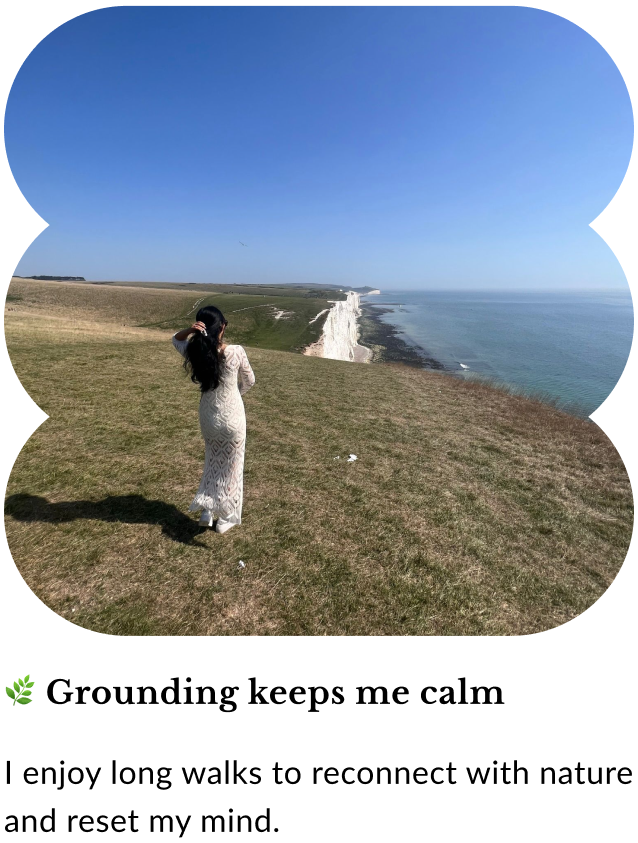
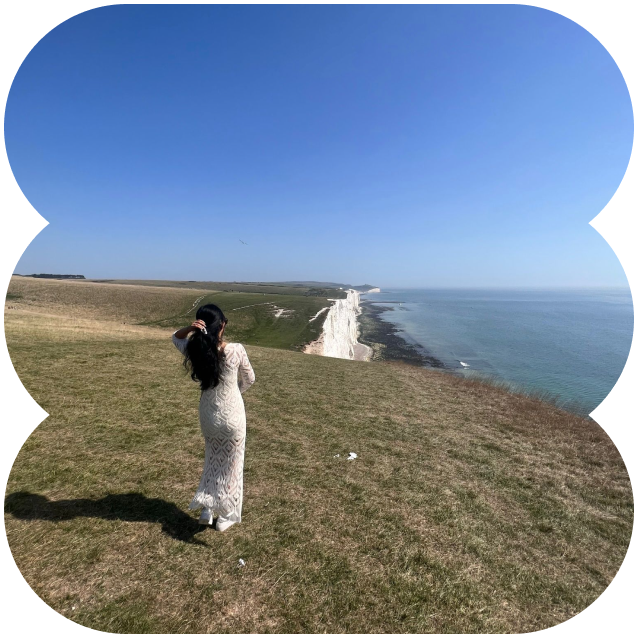
improve images rendering and perfromance

diff --git a/about.html b/about.html
@@ -135,29 +135,39 @@
         <div id="carousel--slides" class="carousel--slides">
           <div class="carousel--slide">
             <div class="carousel--slide--box">
-              <img src="assets/img/carousel/about_1.png" />
+              <img width="315" height="315" src="assets/img/carousel/about_1.png" />
+              <h4>☕ Coffeeholic alert</h4>
+              <p>Nothing makes me happier than visiting cute specialty coffee shops with friends. </p>
             </div>
           </div>
 
           <div class="carousel--slide">
             <div class="carousel--slide--box">
-              <img src="assets/img/carousel/about_2.png" />
+              <img width="315" height="315" src="assets/img/carousel/about_2.png" />
+              <h4> 🍽 I’m a foodie at heart</h4>
+              <p>I love discovering new places, cultures, and flavors through travel and local cuisine.</p>
             </div>
           </div>
           <div class="carousel--slide">
             <div class="carousel--slide--box">
-              <img src="assets/img/carousel/about_3.png" />
+              <img width="315" height="315" src="assets/img/carousel/about_3.png" />
+              <h4>🌿 Grounding keeps me calm</h4>
+              <p>I enjoy long walks to reconnect with nature and reset my mind.</p>
             </div>
           </div>
           <div class="carousel--slide">
             <div class="carousel--slide--box">
-              <img src="assets/img/carousel/about_4.png" />
+              <img width="315" height="315" src="assets/img/carousel/about_4.png" />
+              <h4>🌍 I’ve lived in five countries</h4>
+              <p>Born in Venezuela, and life (and work) has taken me to Ecuador, Argentina, Spain, and the UK</p>
             </div>
 
           </div>
           <div class="carousel--slide">
             <div class="carousel--slide--box">
-              <img src="assets/img/carousel/about_5.png" />
+              <img width="315" height="315" src="assets/img/carousel/about_5.png" />
+              <h4>🎶 Concerts are my vibe</h4>
+              <p>I’m always up for live music, from festivals to local concerts (my playlists might surprise you!).</p>
             </div>
           </div>
         </div>
@@ -180,7 +190,8 @@
                   </section>
                 </div>
               </a>
-              <p class="project-description"><strong>SABA Web:</strong> B2B web app that helps users find and book car parkings easily.</p>
+              <p class="project-description"><strong>SABA Web:</strong> B2B web app that helps users find and book car
+                parkings easily.</p>
               <a href="saba.html" class="btn-default">Read more</a>
             </div>
             <div>
@@ -192,7 +203,8 @@
                   </section>
                 </div>
               </a>
-              <p class="project-description"><strong>Implika Web:</strong> website redesign focused on SEO and CRO strategies to increase conversion rate</p>
+              <p class="project-description"><strong>Implika Web:</strong> website redesign focused on SEO and CRO
+                strategies to increase conversion rate</p>
               <a href="implika.html" class="btn-default">Read more</a>
             </div>
           </div>
@@ -323,7 +335,6 @@
   <script src="assets/vendor/jquery/jquery.min.js"></script>
   <script src="assets/vendor/bootstrap/js/bootstrap.bundle.min.js"></script>
   <script src="assets/vendor/jquery.easing/jquery.easing.min.js"></script>
-  <script src="assets/vendor/php-email-form/validate.js"></script>
   <script src="assets/vendor/waypoints/jquery.waypoints.min.js"></script>
   <script src="assets/vendor/counterup/counterup.min.js"></script>
   <script src="assets/vendor/owl.carousel/owl.carousel.min.js"></script>

diff --git a/index.html b/index.html
@@ -113,30 +113,30 @@
             <div id="carousel--slides" class="carousel--slides">
                 <div class="carousel--slide">
                     <div class="carousel--slide--box">
-                        <img src="assets/img/carousel/carousel_1.png" />
+                        <img width="384" height="285" src="assets/img/carousel/carousel_1.png" />
                     </div>
                 </div>
 
                 <div class="carousel--slide">
                     <div class="carousel--slide--box">
-                        <img src="assets/img/carousel/carousel_2.png" />
+                        <img width="384" height="285" src="assets/img/carousel/carousel_2.png" />
                     </div>
                 </div>
 
                 <div class="carousel--slide">
                     <div class="carousel--slide--box">
-                        <img src="assets/img/carousel/carousel_3.png" />
+                        <img width="384" height="285" src="assets/img/carousel/carousel_3.png" />
                     </div>
                 </div>
 
                 <div class="carousel--slide">
                     <div class="carousel--slide--box">
-                        <img src="assets/img/carousel/carousel_4.png" />
+                        <img width="384" height="285" src="assets/img/carousel/carousel_4.png" />
                     </div>
                 </div>
                 <div class="carousel--slide">
                     <div class="carousel--slide--box">
-                        <img src="assets/img/carousel/carousel_5.png" />
+                        <img width="384" height="285" src="assets/img/carousel/carousel_5.png" />
                     </div>
                 </div>
             </div>
@@ -243,7 +243,7 @@
     <script src="assets/vendor/jquery/jquery.min.js"></script>
     <script src="assets/vendor/bootstrap/js/bootstrap.bundle.min.js"></script>
     <script src="assets/vendor/jquery.easing/jquery.easing.min.js"></script>
-    <script src="assets/vendor/php-email-form/validate.js"></script>
+   
     <script src="assets/vendor/waypoints/jquery.waypoints.min.js"></script>
     <script src="assets/vendor/counterup/counterup.min.js"></script>
     <script src="assets/vendor/owl.carousel/owl.carousel.min.js"></script>

diff --git a/assets/css/carousel.css b/assets/css/carousel.css
@@ -1,7 +1,6 @@
 #carousel {
     width: 100%;
     flex: none;
-    height: 333px;
     position: relative;
     width: 100%;
     aspect-ratio: auto;
@@ -46,16 +45,57 @@
 .carousel--slide--box {
     position: relative;
     border-radius: 20px;
-    box-shadow: rgb(255, 255, 255) 0px 3px 0px 0px inset;
-    width: 286px;
-    height: 333px;
+    width: 384px;
+    height: 285px;
 }
 
 .carousel--slide--box img {
-    width: 100%;
-    height: 100%;
+    width: 384px;
+    height: 285px;
     border-radius: 20px;
-    object-fit: contain;
-    object-position: center;
-    aspect-ratio: auto 1582 / 1187;
+    /* if you're scaling up low-res */
+}
+
+#about-page .carousel--slide,
+#about-page .carousel--slides {
+    width: 315px;
+    height: 519px;
+}
+
+#about-page .carousel--slide--box {
+    width: 315px;
+    height: 419px;
+    box-shadow: none;
+}
+
+#about-page .carousel--slide--box h4 {
+    font-family: "Libre Baskerville", "Libre Baskerville Placeholder", serif;
+    font-weight: 700;
+    font-style: bold;
+    font-size: 15px;
+    line-height: 24px;
+    letter-spacing: 2%;
+    vertical-align: middle;
+    color: #000000;
+    margin: 15px;
+}
+
+#about-page .carousel--slide--box p {
+    font-family: Lato;
+    font-weight: 400;
+    font-style: regular;
+    font-size: 14px;
+    line-height: 24px;
+    letter-spacing: 2%;
+    vertical-align: middle;
+    color: #000000;
+    margin: 15px;
+}
+
+#about-page .carousel--slide--box img {
+    height: 315px;
+}
+
+#about-page #carousel {
+    height: 100%;
 }

diff --git a/assets/js/carousel.js b/assets/js/carousel.js
@@ -8,13 +8,16 @@ document.addEventListener("DOMContentLoaded", () => {
 
     // I need to duplicate the slides to create a seamless effect
     const cloneSlides = () => {
-        const originals = Array.from(carouselSlides.children);
-        // e.g. duplicate 3 times
-        for (let j = 0; j < 3; j++) {
-            originals.forEach(slide => {
-                carouselSlides.appendChild(slide.cloneNode(true));
-            });
+        if (carouselSlides?.children) {
+            const originals = Array.from(carouselSlides.children);
+            // e.g. duplicate 3 times
+            for (let j = 0; j < 3; j++) {
+                originals.forEach(slide => {
+                    carouselSlides.appendChild(slide.cloneNode(true));
+                });
+            }
         }
+
     }
 
     const carouselContainer = document.getElementById("carousel");
@@ -35,7 +38,10 @@ document.addEventListener("DOMContentLoaded", () => {
         updateCarouselPosition(true);
     }
 
-    setInterval(nextSlide, 280);
-    cloneSlides(); // Clone slides for seamless effect
+    if (carouselSlides) {
+        setInterval(nextSlide, 280);
+        cloneSlides(); // Clone slides for seamless effect
+    }
+
 
 })

diff --git a/assets/css/style.css b/assets/css/style.css
@@ -47,6 +47,23 @@ p strong {
 
 }
 
+img {
+  object-fit: contain;
+  object-position: center;
+  aspect-ratio: auto 1582 / 1187;
+
+
+  image-rendering: auto;
+  image-rendering: crisp-edges;
+  image-rendering: -webkit-optimize-contrast;
+  /* Chrome/Safari */
+  image-rendering: pixelated;
+  /* Firefox */
+  /* -ms-interpolation-mode: nearest-neighbor; */
+  /* Force GPU acceleration */
+  /* backface-visibility: hidden; */
+}
+
 #main {
   margin-top: 50px;
 }
@@ -2155,11 +2172,6 @@ section {
   width: 100%;
   height: auto;
   image-rendering: -webkit-optimize-contrast;
-  /* For Chrome */
-  image-rendering: crisp-edges;
-  -ms-interpolation-mode: nearest-neighbor;
-  /* Force GPU acceleration */
-  backface-visibility: hidden;
   /* Reduce blurriness */
   width: 100%;
 }
@@ -2189,7 +2201,7 @@ section {
 }
 
 #about.project-description .columns {
-  grid-template-columns: 65% 35%;
+  grid-template-columns: 60% 40%;
 }
 
 #about.project-description .columns-even {

diff --git a/dr_planta.html b/dr_planta.html
@@ -540,7 +540,7 @@
         <script src="assets/vendor/jquery/jquery.min.js"></script>
         <script src="assets/vendor/bootstrap/js/bootstrap.bundle.min.js"></script>
         <script src="assets/vendor/jquery.easing/jquery.easing.min.js"></script>
-        <script src="assets/vendor/php-email-form/validate.js"></script>
+
         <script src="assets/vendor/waypoints/jquery.waypoints.min.js"></script>
         <script src="assets/vendor/counterup/counterup.min.js"></script>
         <script src="assets/vendor/owl.carousel/owl.carousel.min.js"></script>

diff --git a/implika.html b/implika.html
@@ -459,7 +459,7 @@
         <script src="assets/vendor/jquery/jquery.min.js"></script>
         <script src="assets/vendor/bootstrap/js/bootstrap.bundle.min.js"></script>
         <script src="assets/vendor/jquery.easing/jquery.easing.min.js"></script>
-        <script src="assets/vendor/php-email-form/validate.js"></script>
+
         <script src="assets/vendor/waypoints/jquery.waypoints.min.js"></script>
         <script src="assets/vendor/counterup/counterup.min.js"></script>
         <script src="assets/vendor/owl.carousel/owl.carousel.min.js"></script>

diff --git a/prinbook.html b/prinbook.html
@@ -448,7 +448,7 @@
         <script src="assets/vendor/jquery/jquery.min.js"></script>
         <script src="assets/vendor/bootstrap/js/bootstrap.bundle.min.js"></script>
         <script src="assets/vendor/jquery.easing/jquery.easing.min.js"></script>
-        <script src="assets/vendor/php-email-form/validate.js"></script>
+
         <script src="assets/vendor/waypoints/jquery.waypoints.min.js"></script>
         <script src="assets/vendor/counterup/counterup.min.js"></script>
         <script src="assets/vendor/owl.carousel/owl.carousel.min.js"></script>

diff --git a/saba.html b/saba.html
@@ -475,7 +475,7 @@
         <script src="assets/vendor/jquery/jquery.min.js"></script>
         <script src="assets/vendor/bootstrap/js/bootstrap.bundle.min.js"></script>
         <script src="assets/vendor/jquery.easing/jquery.easing.min.js"></script>
-        <script src="assets/vendor/php-email-form/validate.js"></script>
+
         <script src="assets/vendor/waypoints/jquery.waypoints.min.js"></script>
         <script src="assets/vendor/counterup/counterup.min.js"></script>
         <script src="assets/vendor/owl.carousel/owl.carousel.min.js"></script>

diff --git a/new_zealand.html b/new_zealand.html
@@ -592,7 +592,7 @@
     <script src="assets/vendor/jquery/jquery.min.js"></script>
     <script src="assets/vendor/bootstrap/js/bootstrap.bundle.min.js"></script>
     <script src="assets/vendor/jquery.easing/jquery.easing.min.js"></script>
-    <script src="assets/vendor/php-email-form/validate.js"></script>
+   
     <script src="assets/vendor/waypoints/jquery.waypoints.min.js"></script>
     <script src="assets/vendor/counterup/counterup.min.js"></script>
     <script src="assets/vendor/owl.carousel/owl.carousel.min.js"></script>

diff --git a/oxi.html b/oxi.html
@@ -441,7 +441,7 @@
     <script src="assets/vendor/jquery/jquery.min.js"></script>
     <script src="assets/vendor/bootstrap/js/bootstrap.bundle.min.js"></script>
     <script src="assets/vendor/jquery.easing/jquery.easing.min.js"></script>
-    <script src="assets/vendor/php-email-form/validate.js"></script>
+   
     <script src="assets/vendor/waypoints/jquery.waypoints.min.js"></script>
     <script src="assets/vendor/counterup/counterup.min.js"></script>
     <script src="assets/vendor/owl.carousel/owl.carousel.min.js"></script>

diff --git a/portfolio-details-1.html b/portfolio-details-1.html
@@ -612,7 +612,7 @@
     <script src="assets/vendor/jquery/jquery.min.js"></script>
     <script src="assets/vendor/bootstrap/js/bootstrap.bundle.min.js"></script>
     <script src="assets/vendor/jquery.easing/jquery.easing.min.js"></script>
-    <script src="assets/vendor/php-email-form/validate.js"></script>
+   
     <script src="assets/vendor/waypoints/jquery.waypoints.min.js"></script>
     <script src="assets/vendor/counterup/counterup.min.js"></script>
     <script src="assets/vendor/owl.carousel/owl.carousel.min.js"></script>
